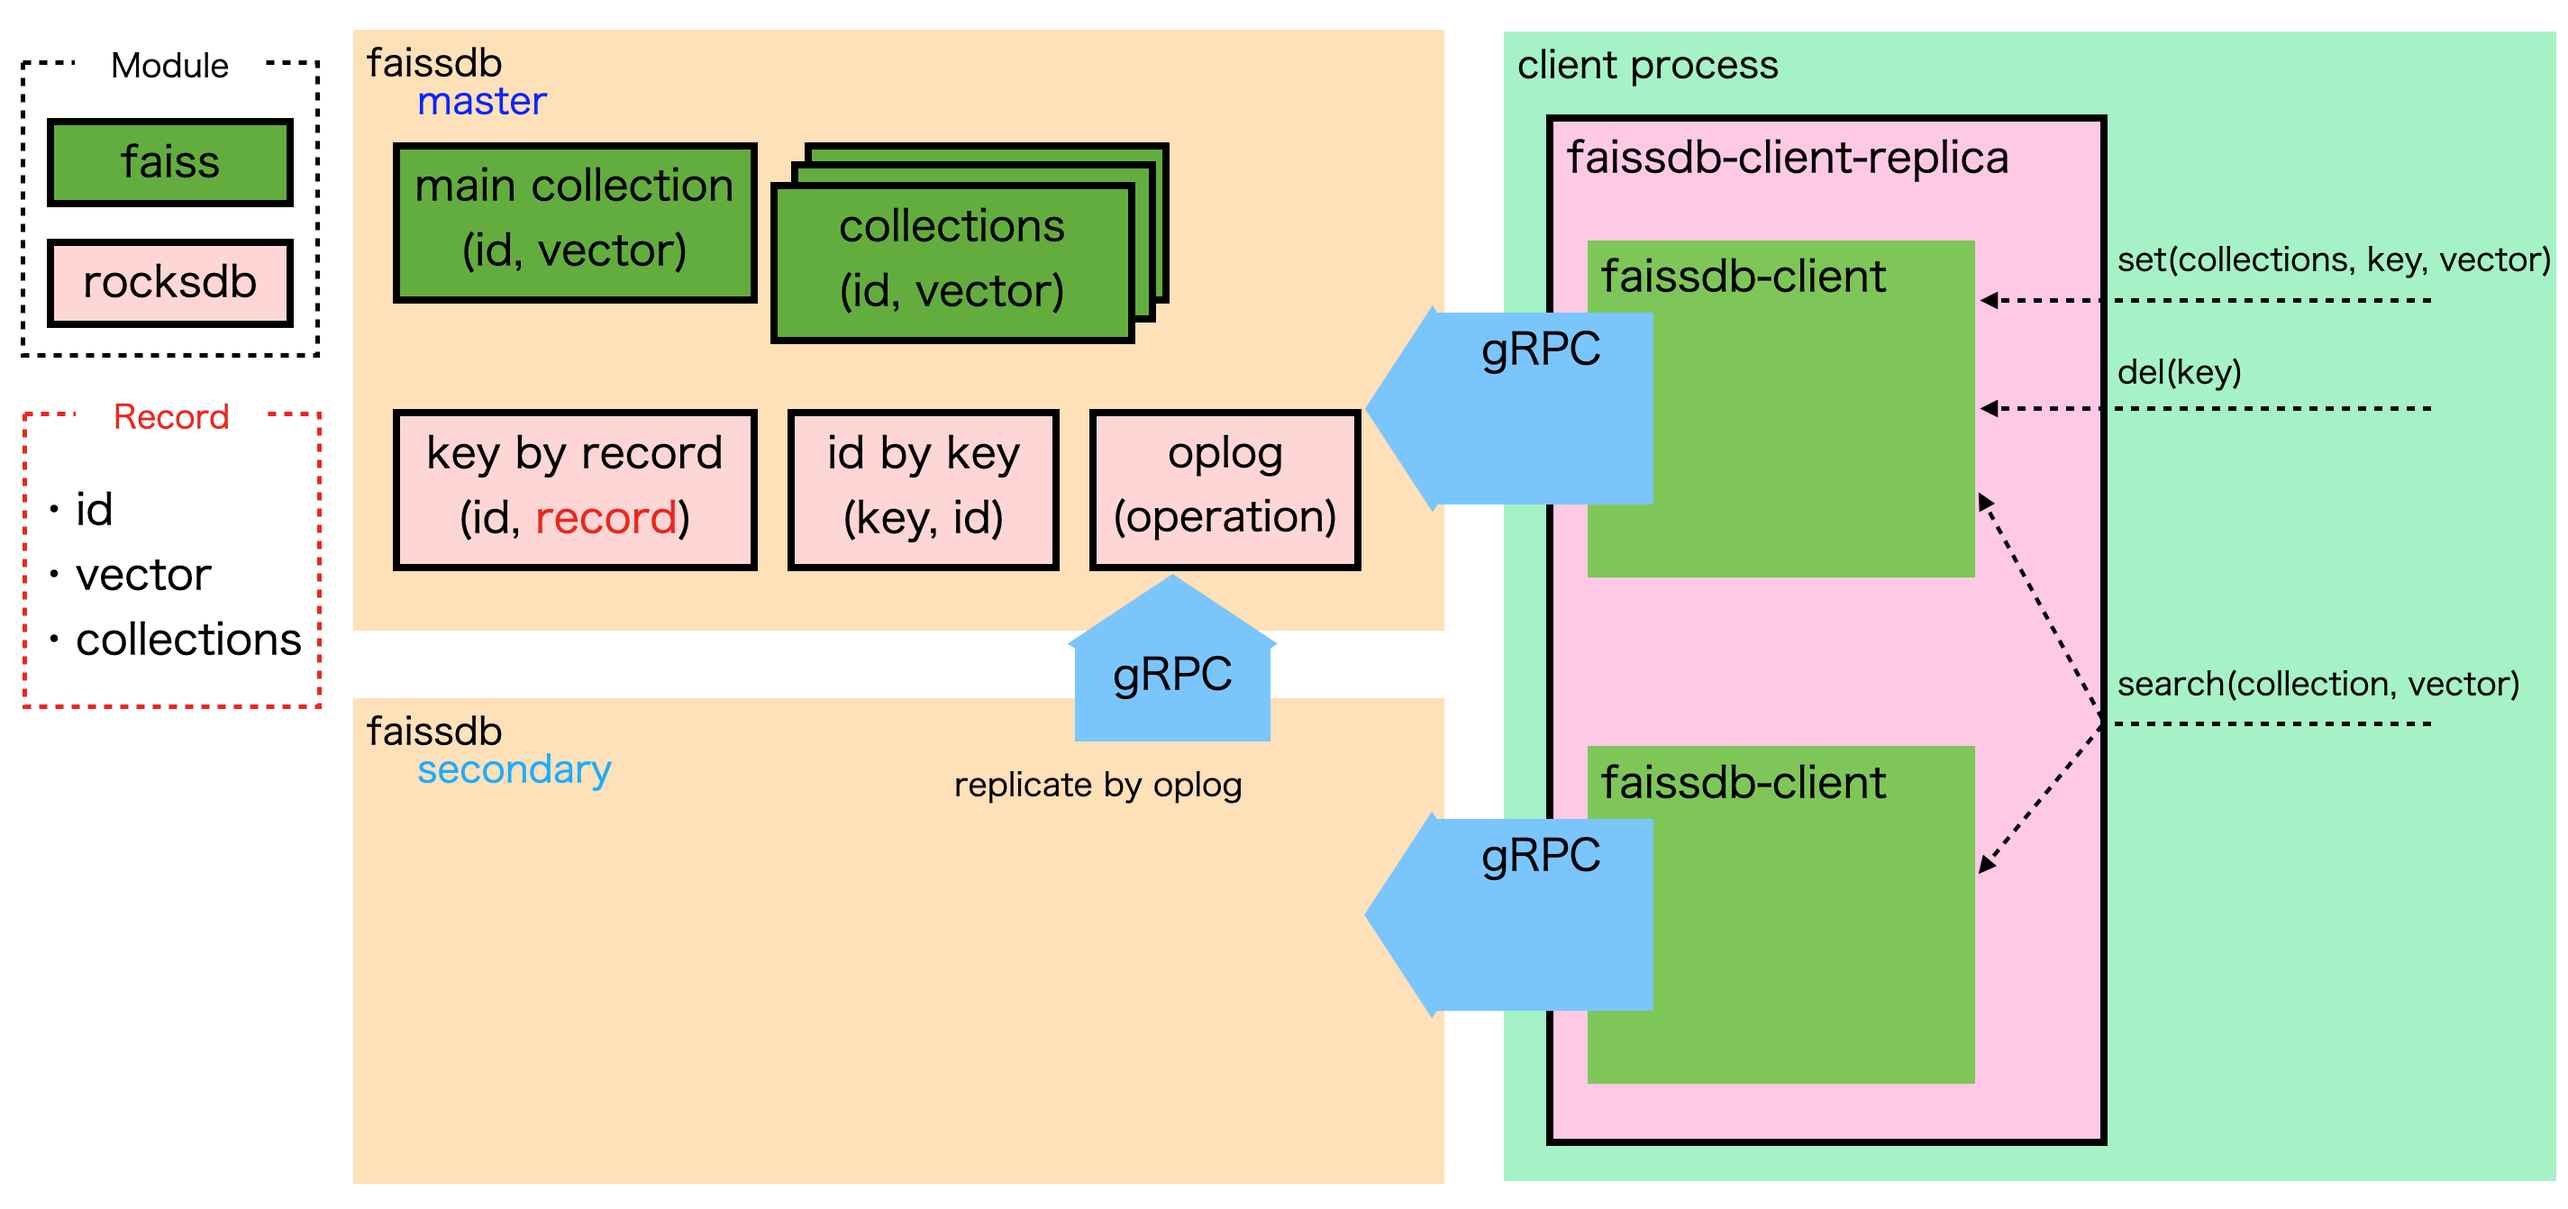
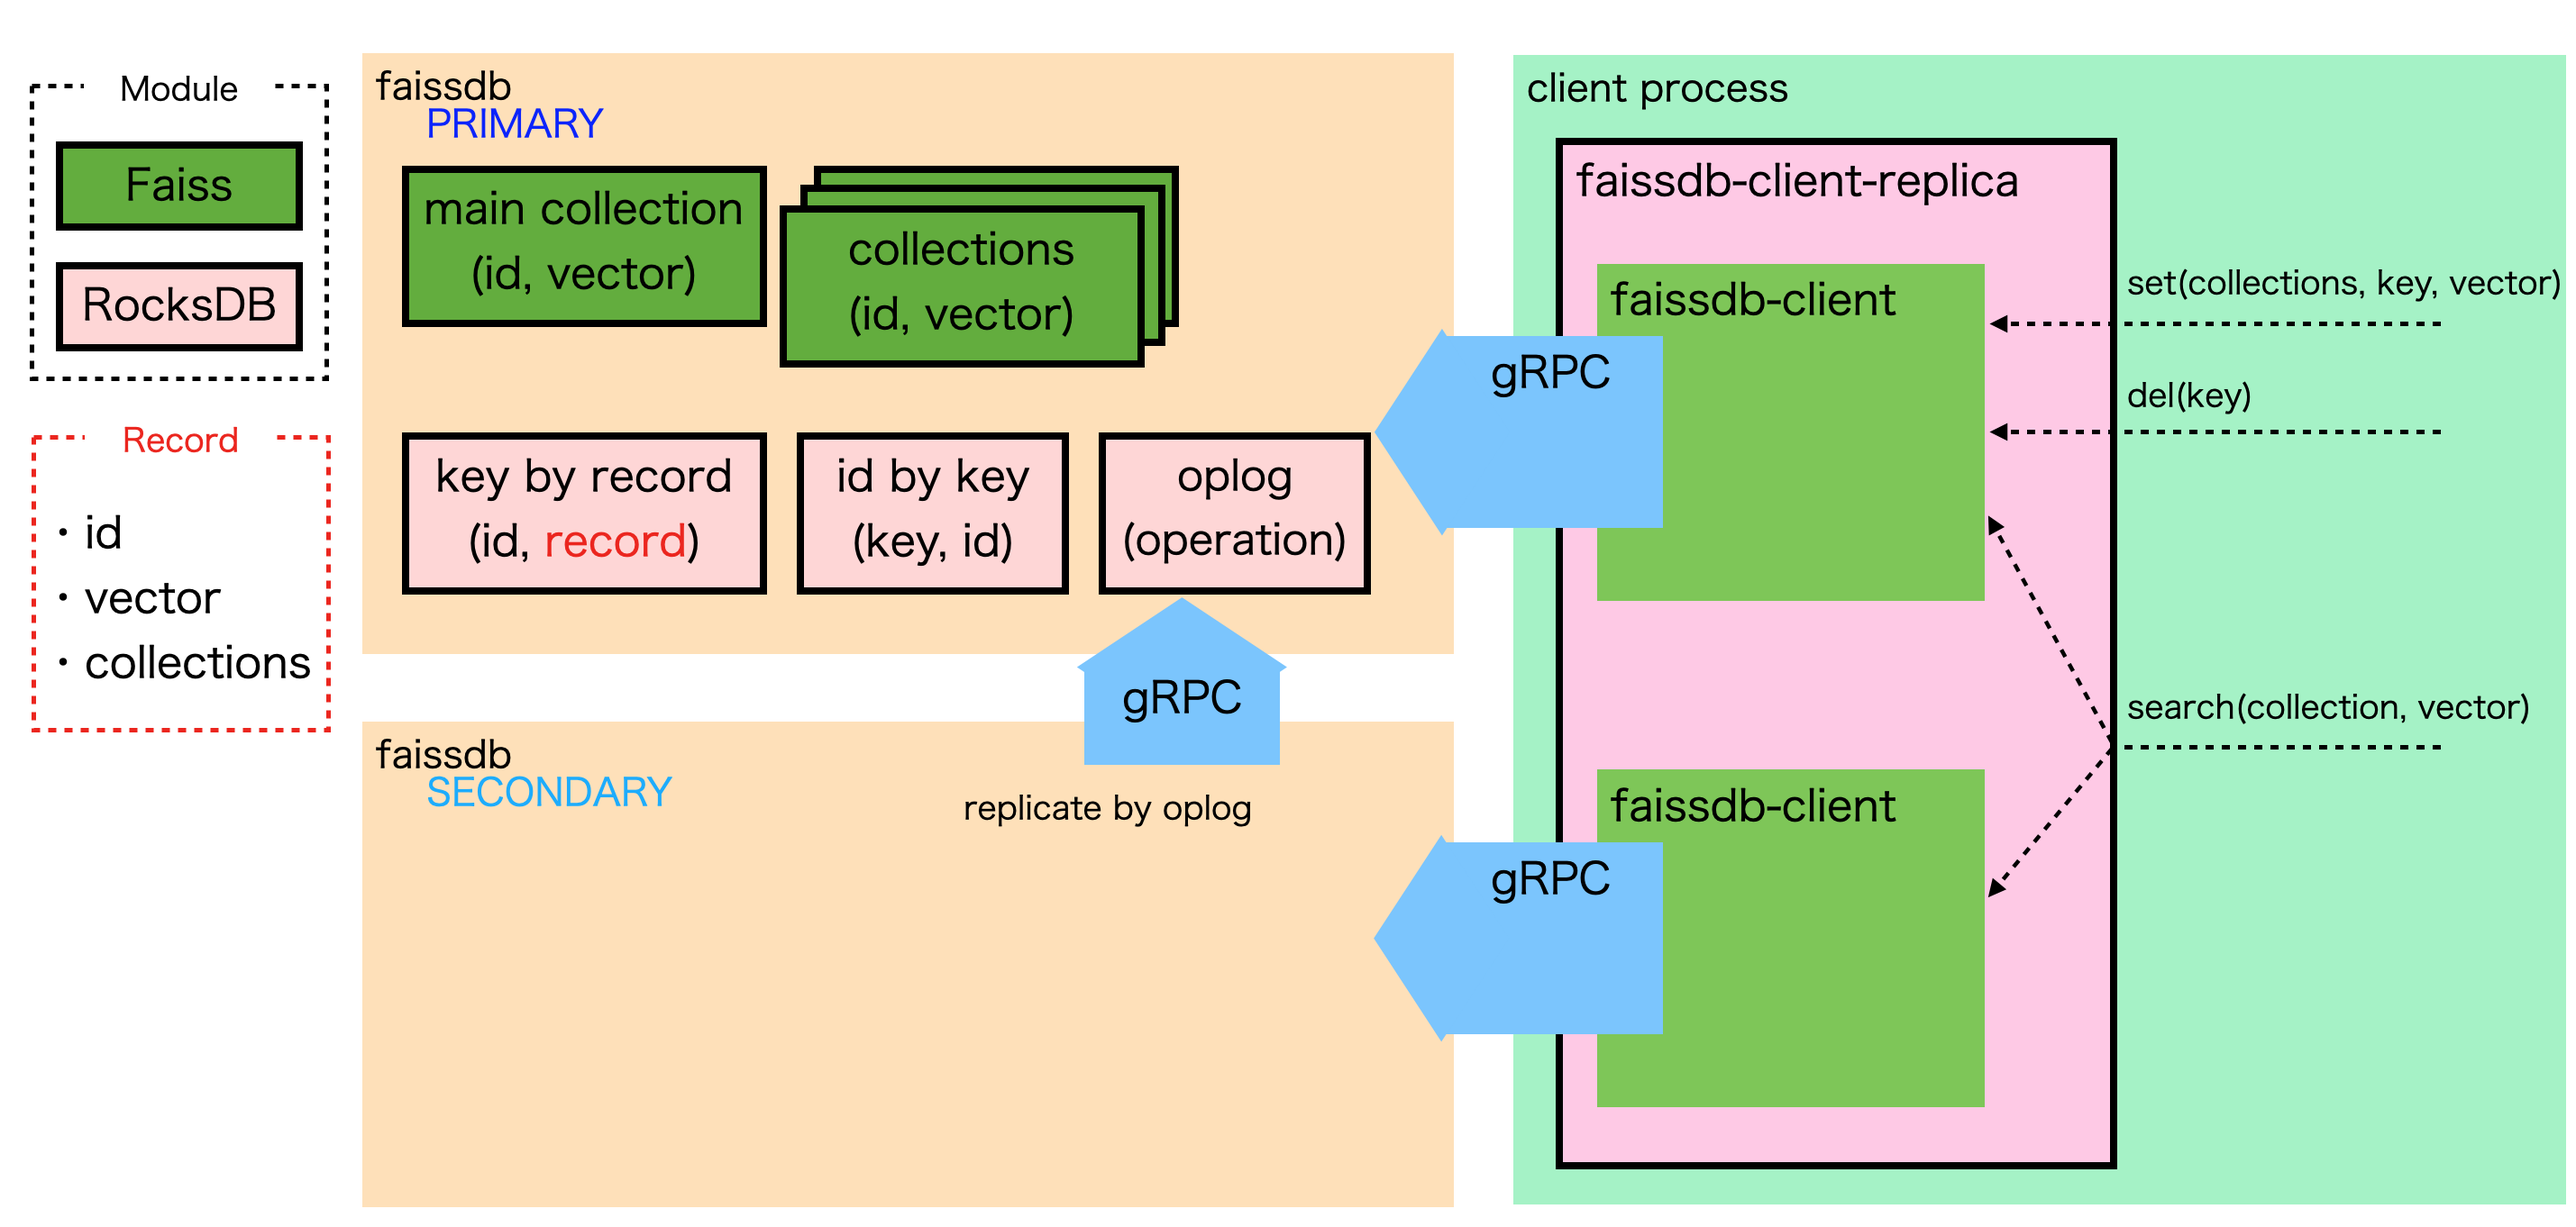
Node name change from master to primary

diff --git a/server/feature.go b/server/feature.go
@@ -18,7 +18,7 @@ type RpcFeatureServer struct {
 func (self *RpcFeatureServer) Set(ctx context.Context, in *pb.SetRequest) (*pb.SetReply, error) {
 	nStored := 0
 	nError := 0
-	if IsMaster() {
+	if IsPrimary() {
 		if FaissdbStatus != STATUS_READY {
 			return nil, errors.New("Not ready")
 		}
@@ -51,7 +51,7 @@ func (self *RpcFeatureServer) Set(ctx context.Context, in *pb.SetRequest) (*pb.S
 }
 
 func (self *RpcFeatureServer) Del(ctx context.Context, in *pb.DelRequest) (*pb.DelReply, error) {
-	if IsMaster() {
+	if IsPrimary() {
 		if FaissdbStatus != STATUS_READY {
 			return nil, errors.New("Not ready")
 		}
@@ -66,7 +66,7 @@ func (self *RpcFeatureServer) Del(ctx context.Context, in *pb.DelRequest) (*pb.D
 
 func (self *RpcFeatureServer) Train(ctx context.Context, in *pb.TrainRequest) (*pb.TrainReply, error) {
 	var err error
-	if IsMaster() {
+	if IsPrimary() {
 		if FaissdbStatus != STATUS_READY {
 			return nil, errors.New("Not ready")
 		}

diff --git a/server/replica.go b/server/replica.go
@@ -86,7 +86,7 @@ func rpcReplicaConnect() {
 	log.Printf("New connection")
 	var err error
 	rpcClientConnection, err = grpc.Dial(
-		config.Replica.Master,
+		config.Replica.Primary,
 		grpc.WithMaxMsgSize(100*1024*1024),
 		grpc.WithInsecure(),
 		grpc.WithBlock())
@@ -98,7 +98,7 @@ func rpcReplicaConnect() {
 }
 
 func InitRpcReplicaClient() {
-	if IsMaster() {
+	if IsPrimary() {
 		return
 	}
 	rpcReplicaConnect()
@@ -161,8 +161,8 @@ func RpcReplicaGetCurrentOplog(startKey string, length int32) ([]string, [][]byt
 }
 
 
-func IsMaster() bool {
-	return config.Replica.Master == ""
+func IsPrimary() bool {
+	return config.Replica.Primary == ""
 }
 
 const (

diff --git a/server/faissdb.go b/server/faissdb.go
@@ -45,7 +45,7 @@ func start() {
 	go InitRpcReplicaServer()
 	InitOplog()
 	InitRpcReplicaClient()
-	if IsMaster() {
+	if IsPrimary() {
 		InitLocalIndex()
 		GapSyncLocalIndex()
 	} else {

diff --git a/server/oplog.go b/server/oplog.go
@@ -92,7 +92,7 @@ func deleteOpLogThread() {
 			}
 			oplogDB.Delete(oplogKey)
 		}
-		if IsMaster() {
+		if IsPrimary() {
 			PutOplog(OP_SYSTEM, "", []byte("deleteOpLogThread"))
 		}
 	}

diff --git a/server/config.go b/server/config.go
@@ -23,7 +23,7 @@ type Dbconfig struct {
 
 type Replicaonfig struct {
 	Listen string
-	Master string
+	Primary string
 }
 
 type Config struct {

diff --git a/README.md b/README.md
@@ -36,7 +36,7 @@ Almost same as Set.
 
 
 ## Plan
-|  supported version  |  feature  |
+|  version  |  feature  |
 | ---- | ---- |
 |  alpha  |  simple replication  |
 |  N/A  | auto promotion from SECONDARY to PRIMARY if needed |
